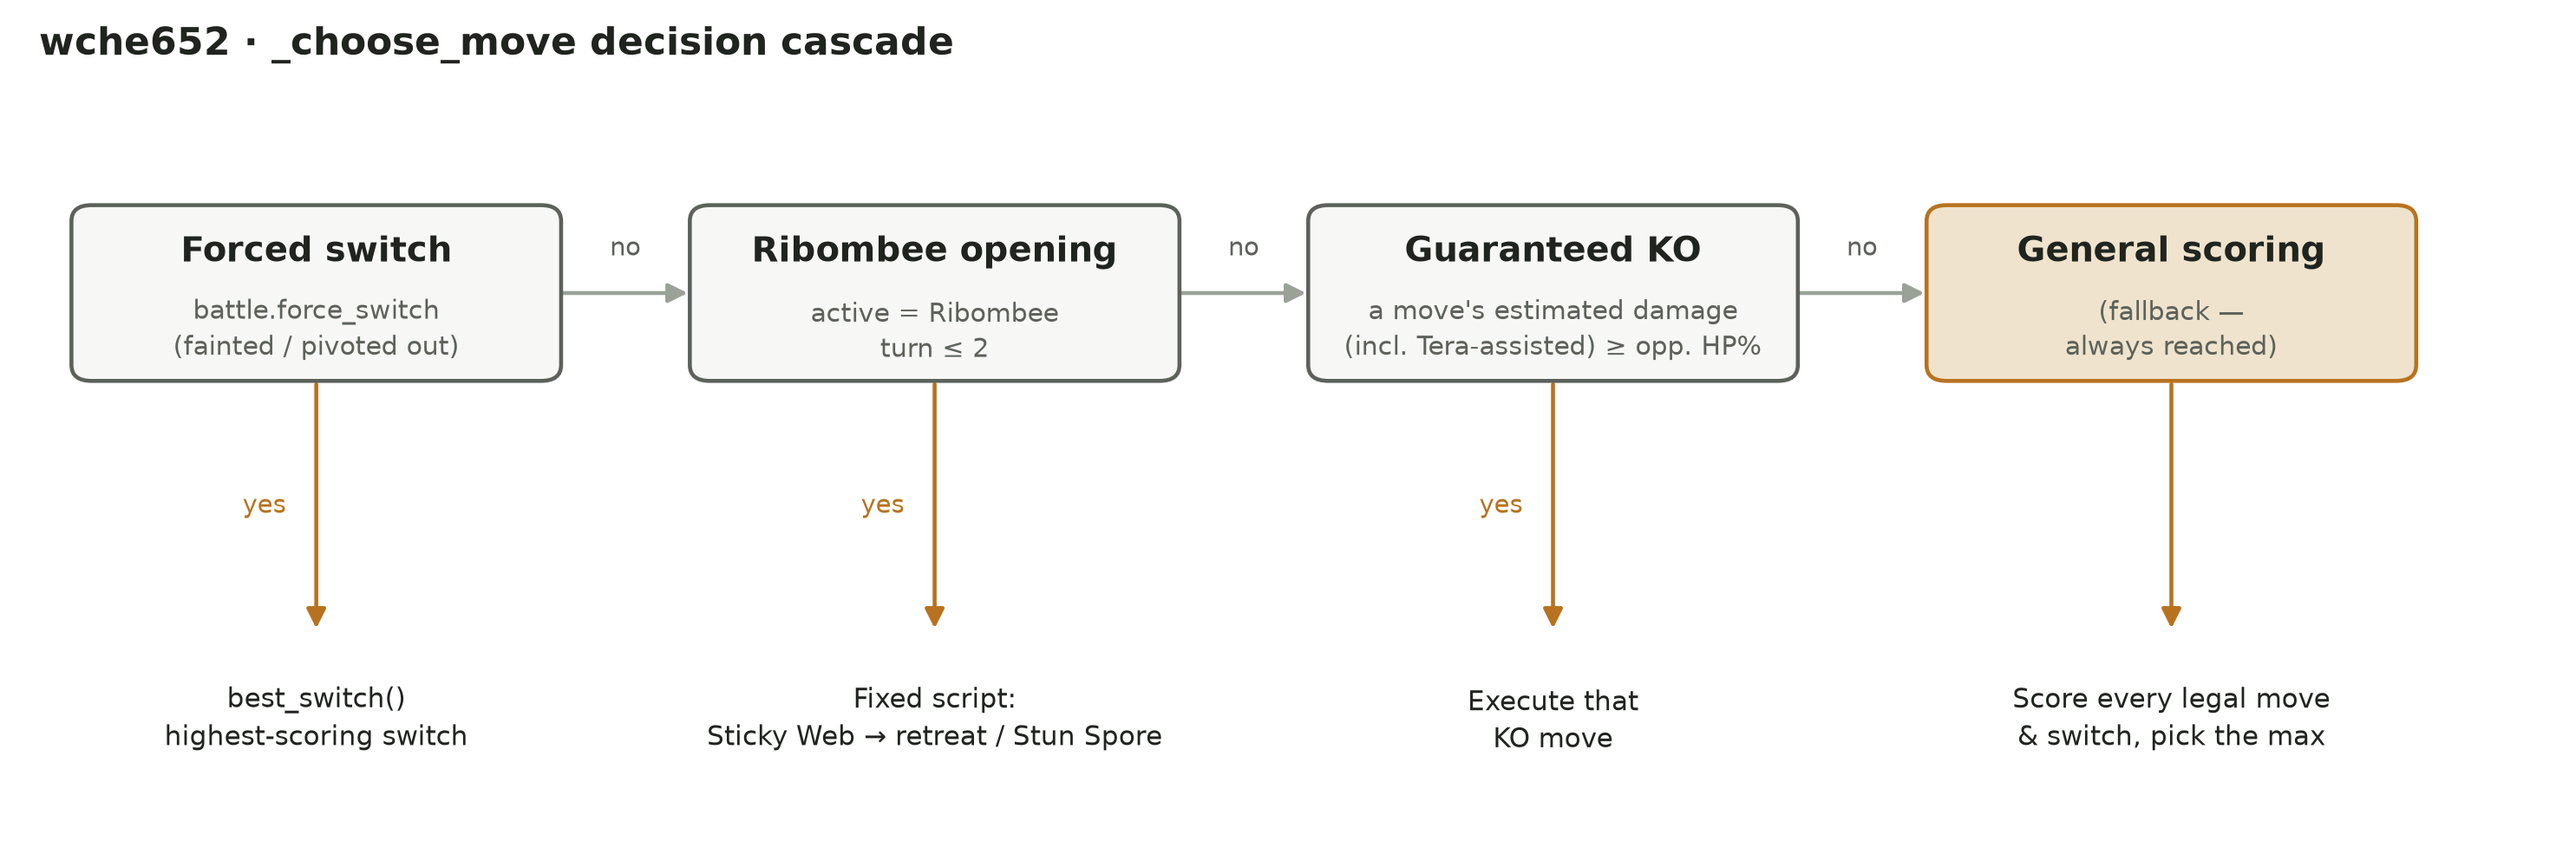
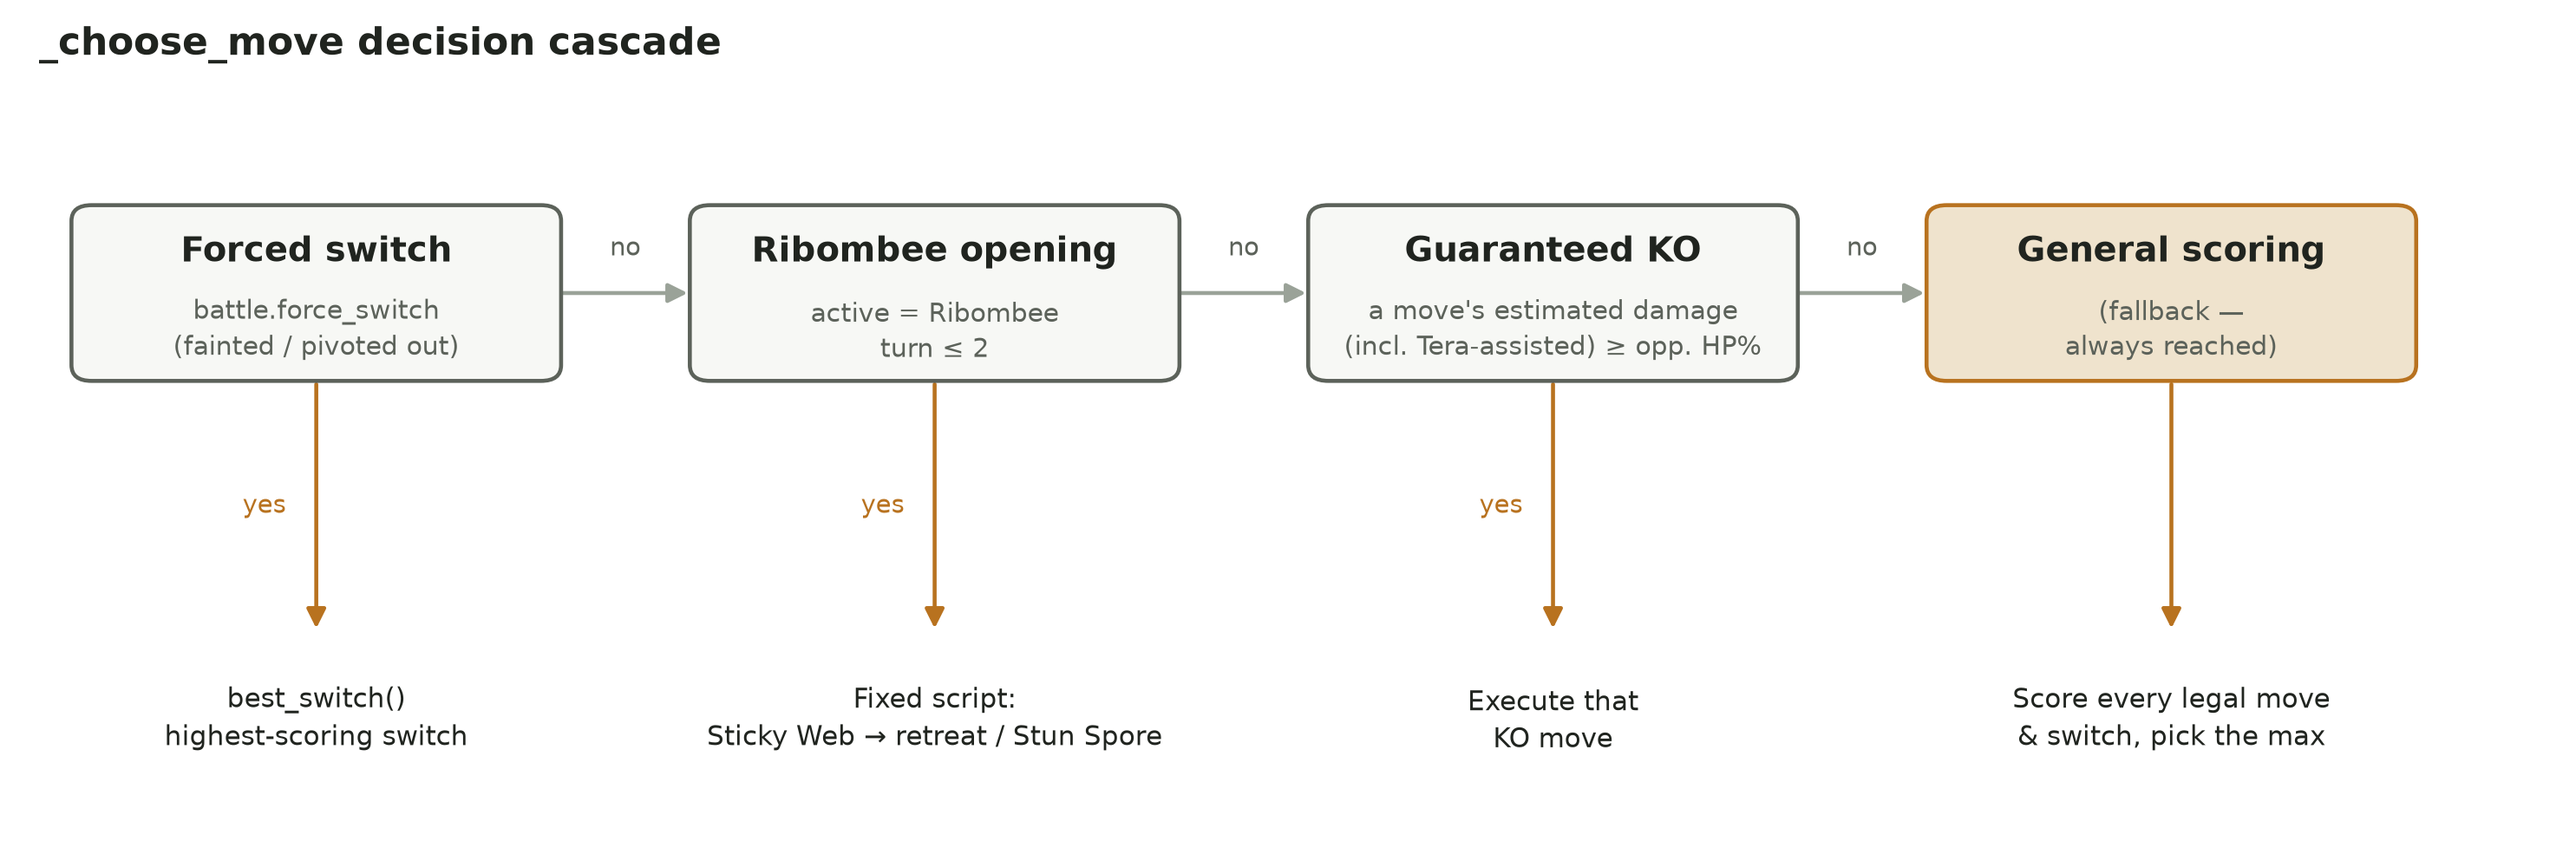
docs: remove the UPI (wche652) from the decision-flow figure and its caption
Both the figure title and the markdown image alt text named the submission
file directly - dropped from the title, and the alt text in both
Report_Final.md and Report_Draft.md.

Changed region(s): [[0.0, 0.031, 0.3717, 0.062]]

diff --git a/analysis/plot_decision_flow.py b/analysis/plot_decision_flow.py
@@ -97,7 +97,7 @@ def main():
     ax.text(cx, action_y, BRANCHES[3][2], ha="center", va="center", fontsize=7.4,
             color=INK, linespacing=1.4)
 
-    fig.suptitle("wche652 · _choose_move decision cascade", fontsize=10.5, fontweight="bold",
+    fig.suptitle("_choose_move decision cascade", fontsize=10.5, fontweight="bold",
                  color=INK, x=0.02, ha="left", y=0.995)
 
     fig.tight_layout(rect=(0, 0, 1, 0.94))

diff --git a/Report_Draft.md b/Report_Draft.md
@@ -151,7 +151,7 @@ Zacian-Crowned 的 Rusted Sword、Arceus-Ghost 的 Spooky Plate 在 Showdown 规
 
 ### 2.4 核心算法：if-else（开局）+ greedy（通用打分）
 
-![wche652 decision cascade](analysis/figures/decision_flow.png)
+![Decision cascade](analysis/figures/decision_flow.png)
 
 *（图：`_choose_move` 的四层决策级联——强制换人 → Ribombee 固定开局脚本（回合 ≤ 2）→ 硬短路
 斩杀检测 → 通用单回合打分兜底，前三层任意一层条件满足就直接执行、不再往下走。生成脚本：

diff --git a/Report_Final.md b/Report_Final.md
@@ -58,7 +58,7 @@ Ribombee is the only Pokémon carrying opponent-speed-control (Sticky Web), temp
 
 ### 2.4 Core Algorithm: if-else for the Opening, Greedy Scoring Everywhere Else
 
-![wche652 decision cascade](analysis/figures/decision_flow.png)
+![Decision cascade](analysis/figures/decision_flow.png)
 
 *The four-layer decision cascade inside `_choose_move`: forced switch → fixed Ribombee opening (turns ≤2) → hard-KO short-circuit → general single-turn scoring fallback. Any layer that fires short-circuits the rest.*
 
